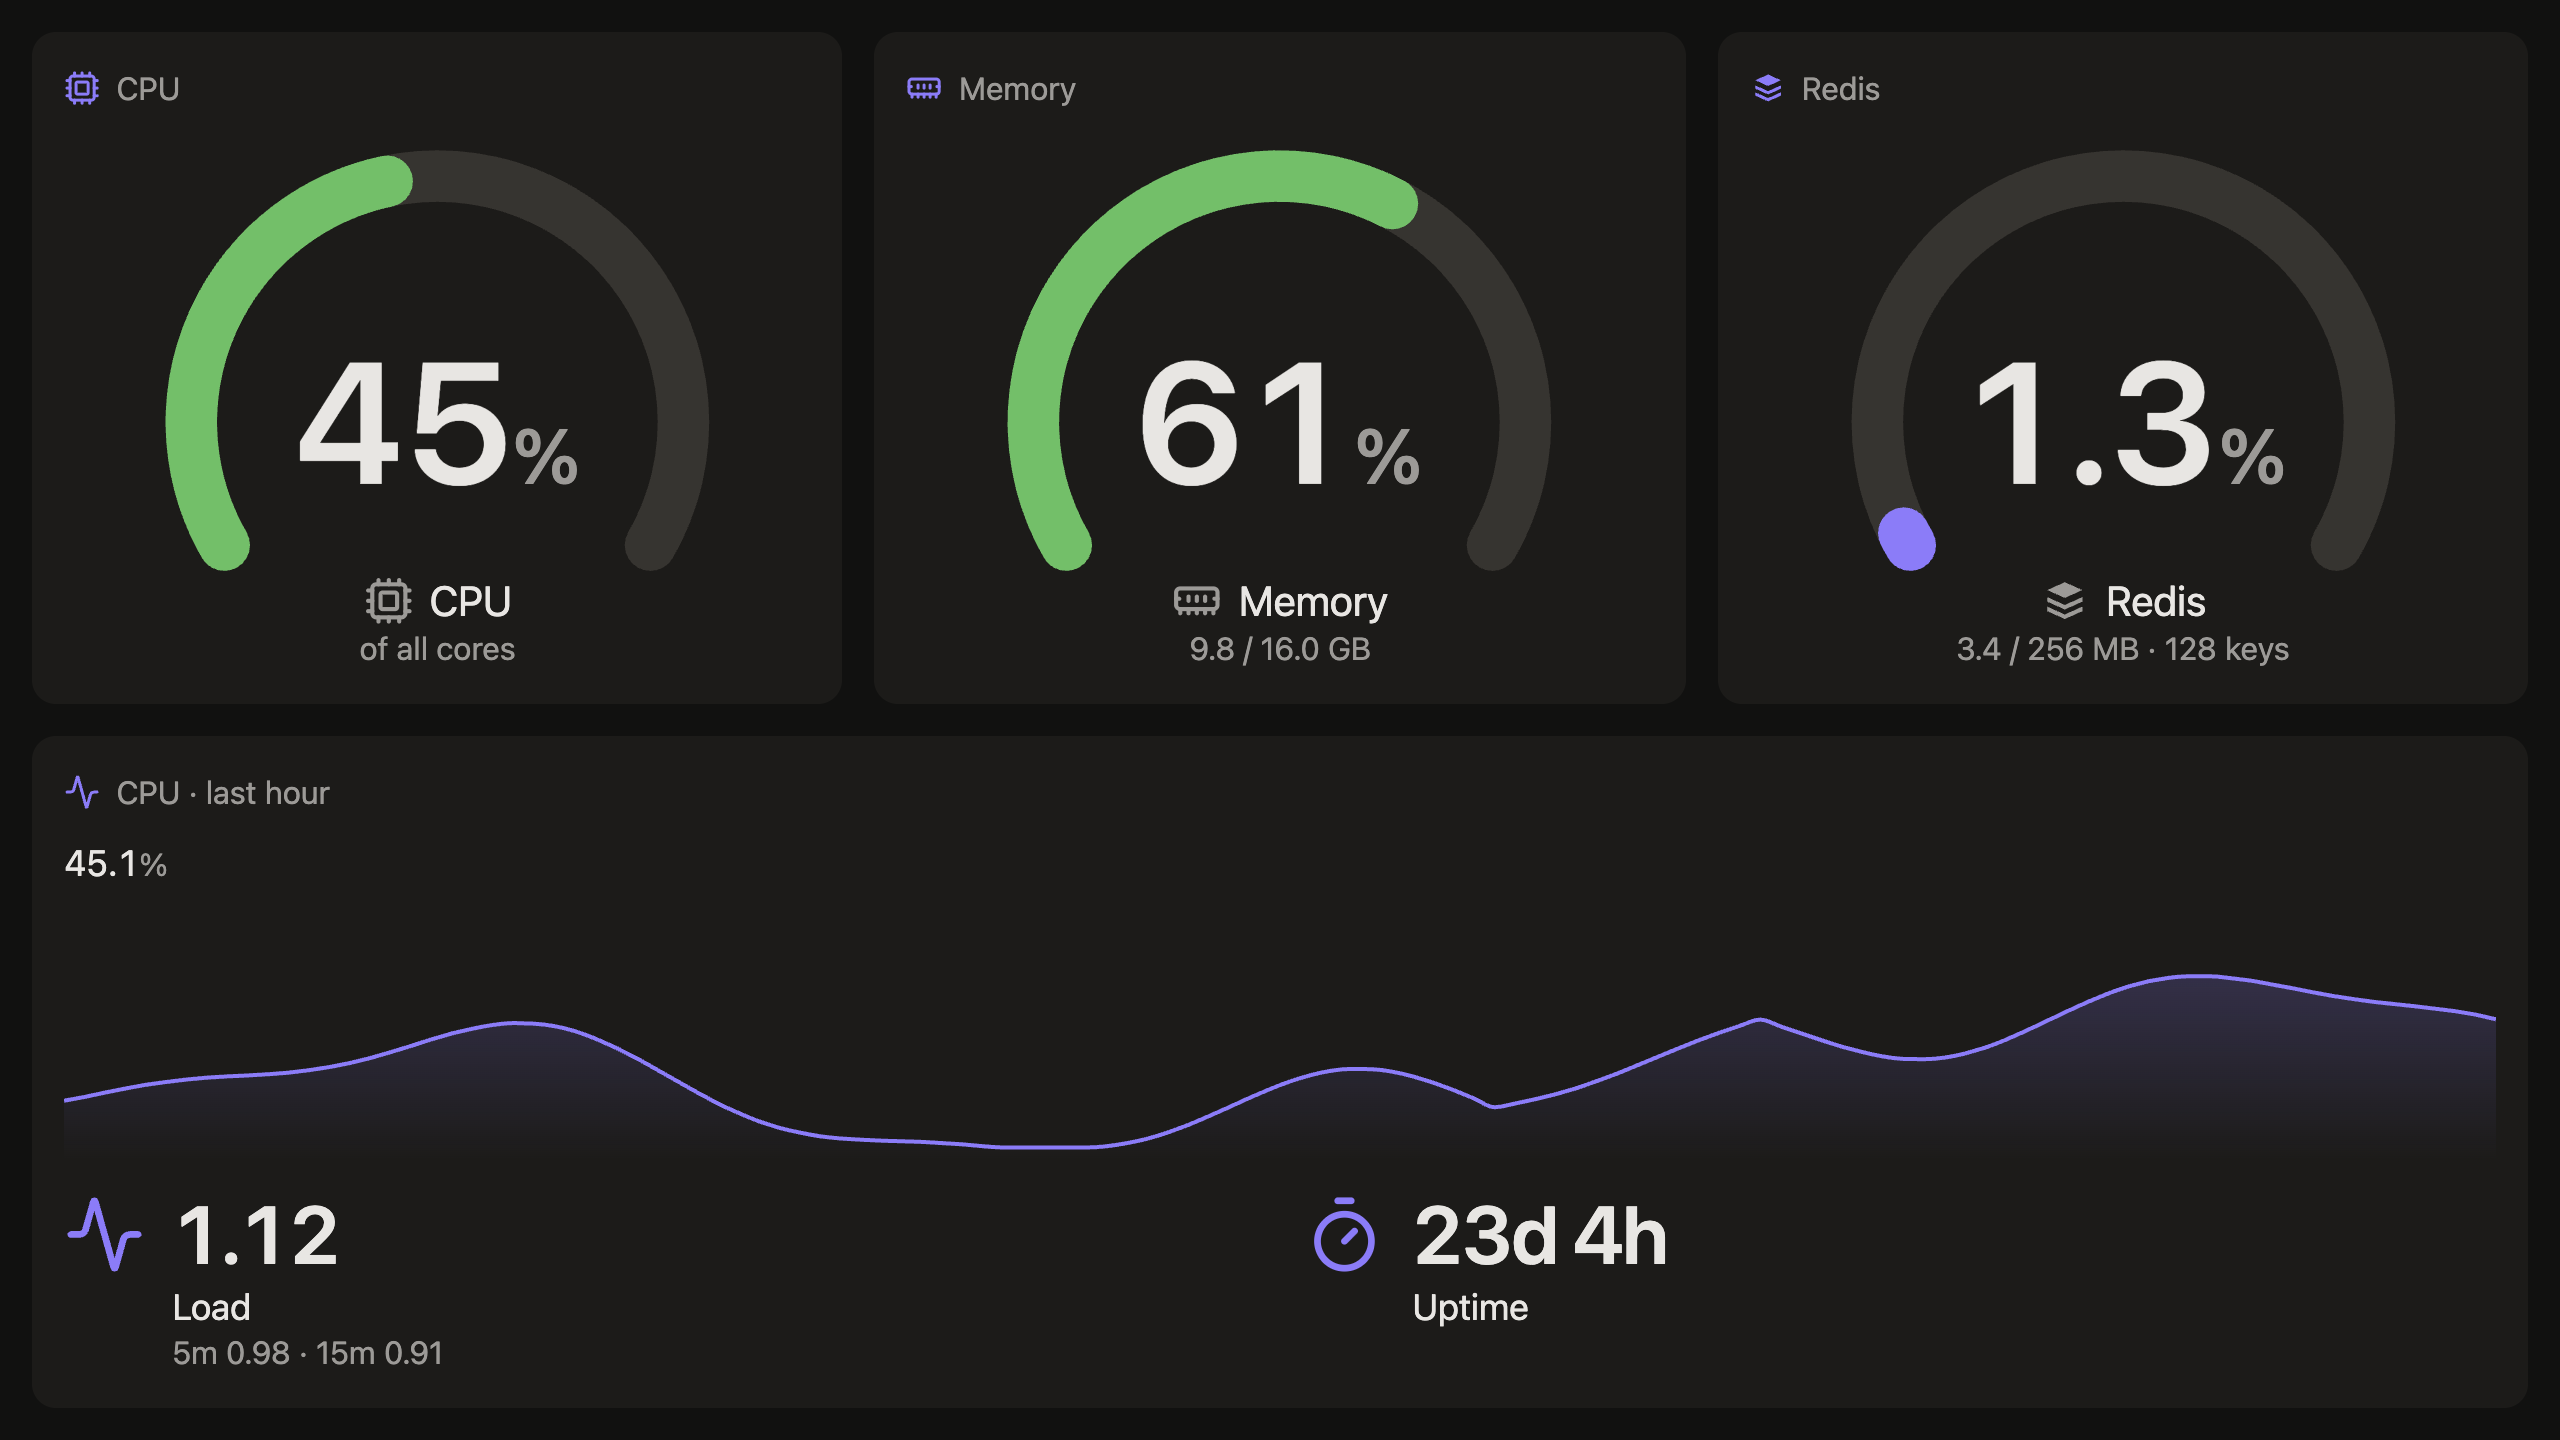
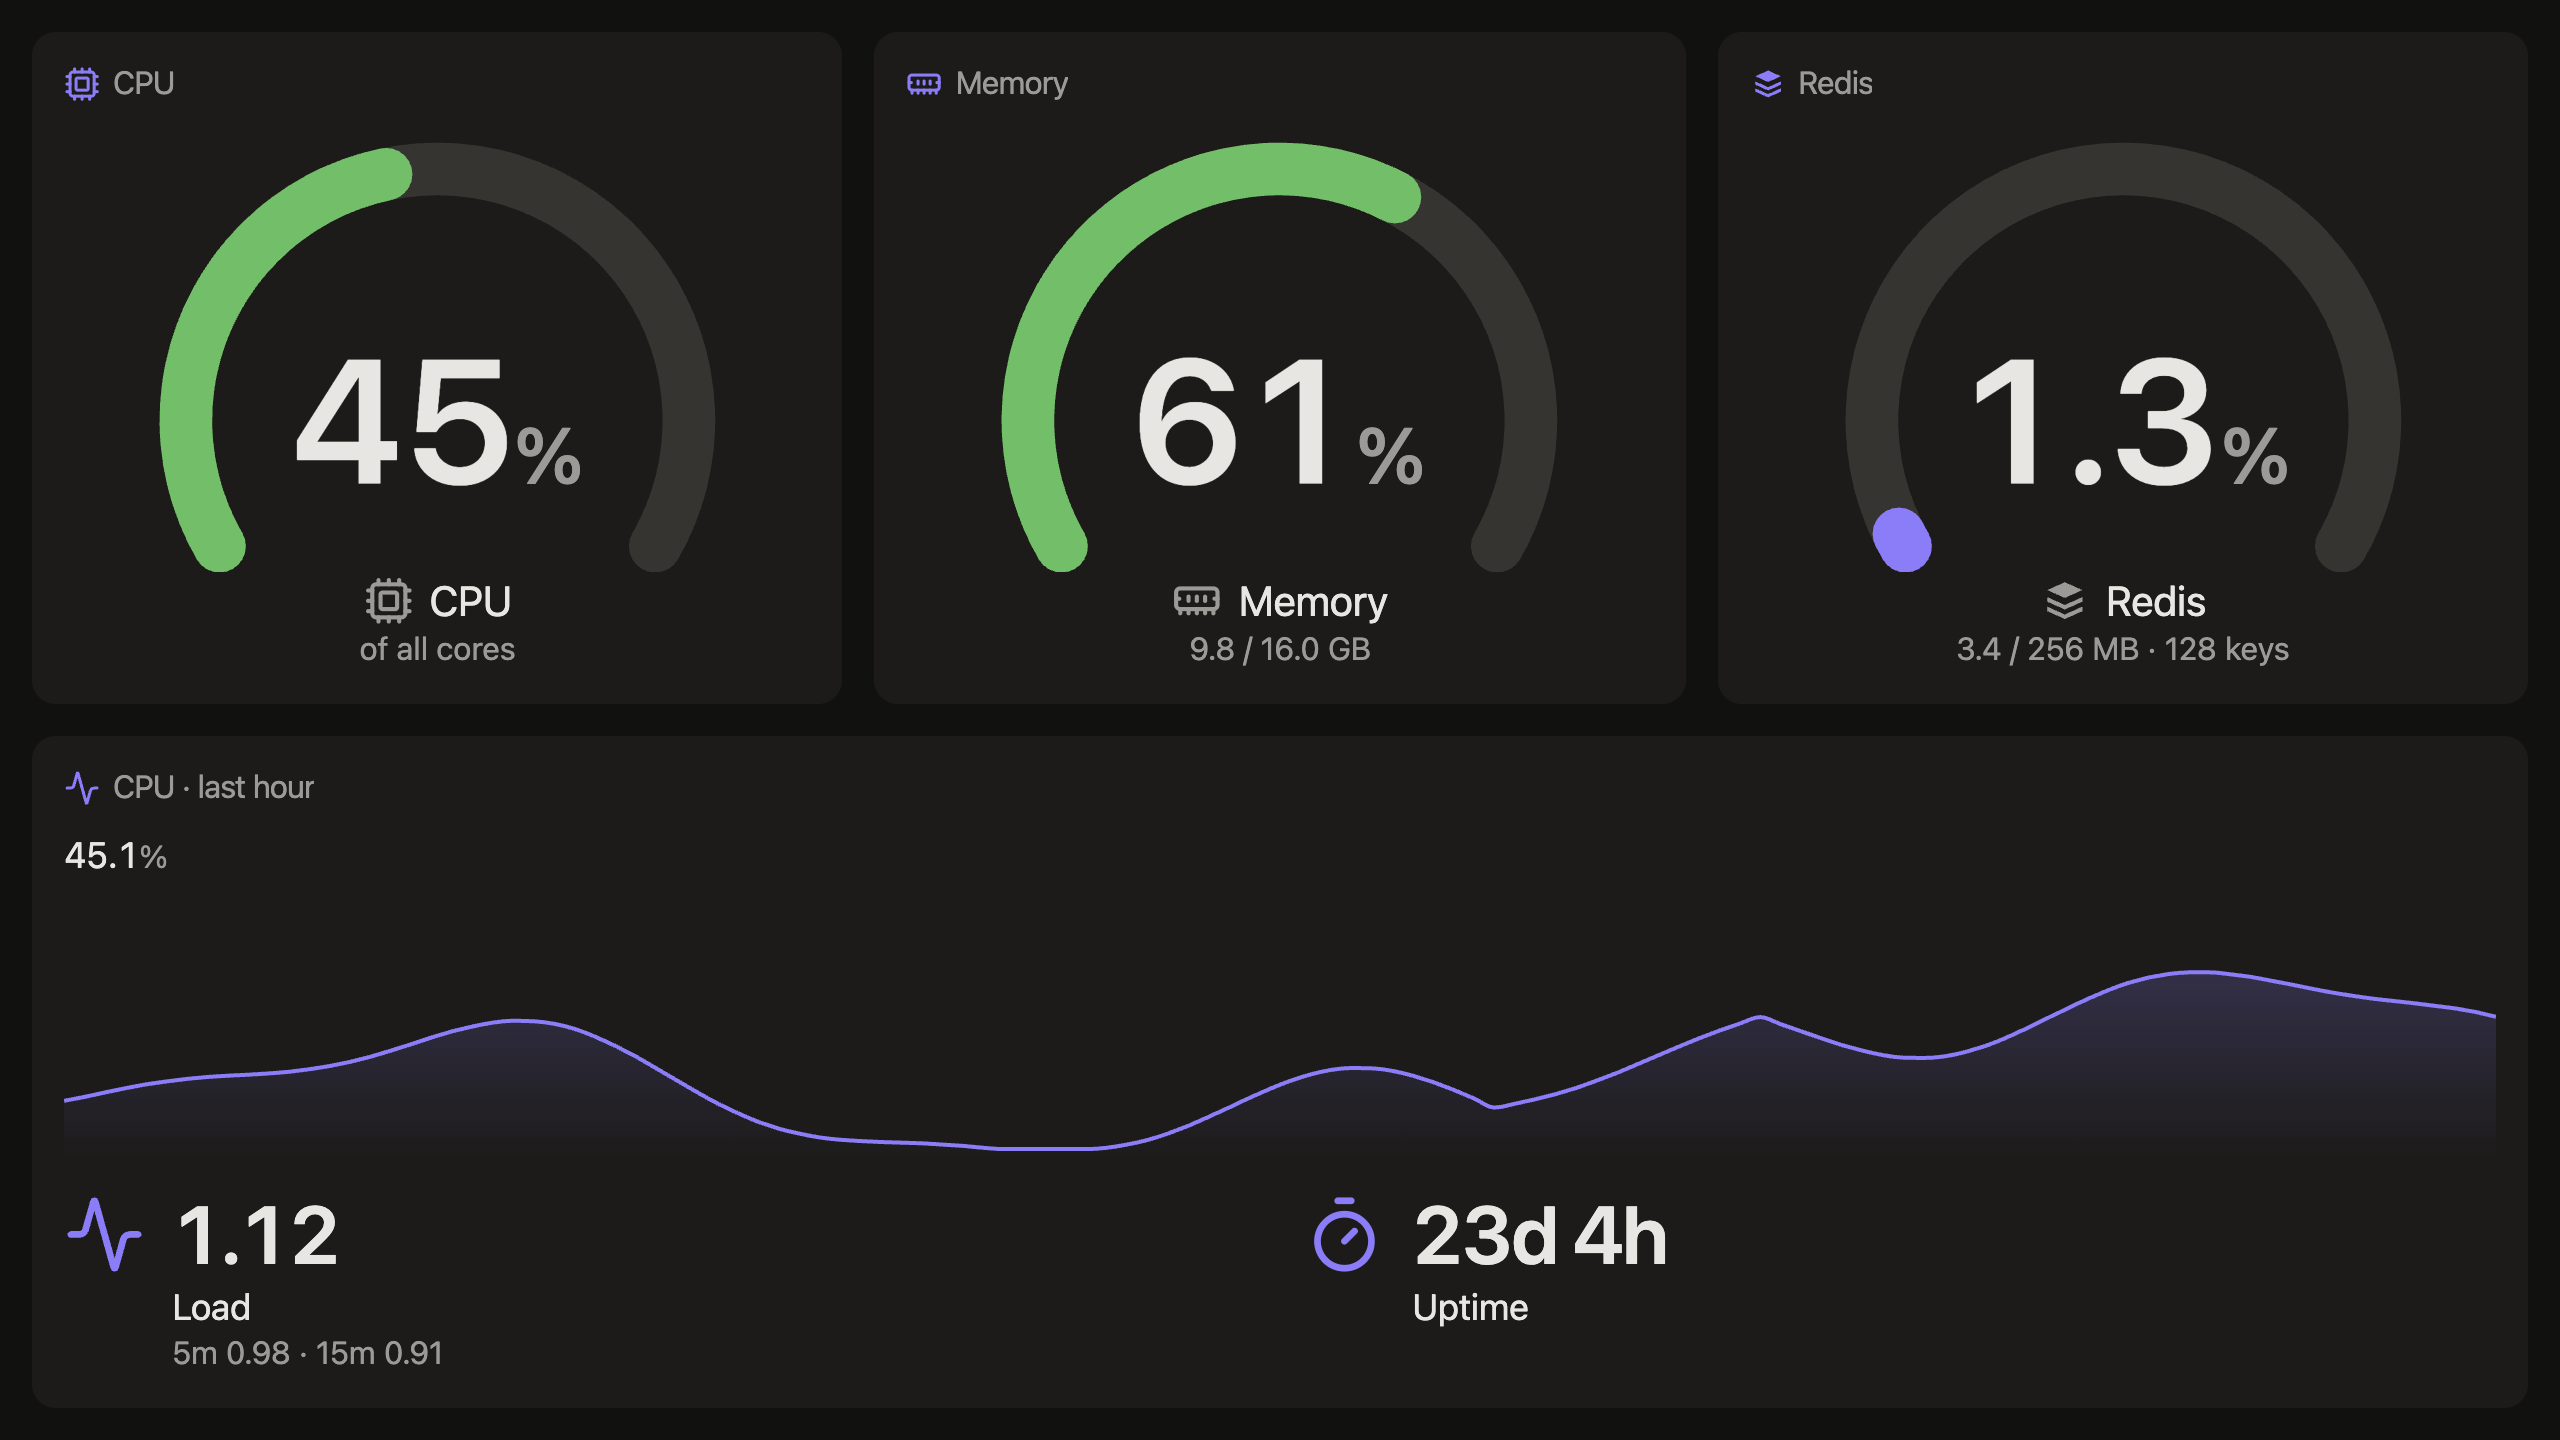
Panel headers are Titles; Title gains end details and a caption size
<Title details="end"> puts its details at the far end of the line, and
size="caption" is the small muted panel heading. Every panel header is now
one: the name on the left, its status (updated, out of date, loading) at
the end. Details may be any content from React.

Claude-Session: https://claude.ai/code/session_011yrrTueXyk1MSCZCH33ZMy

diff --git a/web/src/widgets/Title.tsx b/web/src/widgets/Title.tsx
@@ -1,33 +1,44 @@
+import type { ReactNode } from "react";
 import { Icon } from "./icons";
 
 type Props = {
   text?: string;
-  sub?: string;
+  /** Details: text, or any content (a badge, a spinner) when used from React. */
+  sub?: ReactNode;
   icon?: string;
   align?: "left" | "center" | "right";
-  /** Details under the title, or beside it: to the right when left-aligned, to the left when right-aligned. */
-  details?: "below" | "beside";
-  size?: "small" | "medium" | "large";
+  /**
+   * Details under the title, beside it (to the right when left-aligned, to the left when
+   * right-aligned), or at the far end of the line, as a panel header puts its status.
+   */
+  details?: "below" | "beside" | "end";
+  /** `caption` is the small, muted heading at the top of a panel. */
+  size?: "caption" | "small" | "medium" | "large";
 };
 
-const SIZE = { small: "text-[1.1em]", medium: "text-[1.45em]", large: "text-[1.9em]" };
+const SIZE = { caption: "type-title font-normal", small: "text-[1.1em] font-semibold", medium: "text-[1.45em] font-semibold", large: "text-[1.9em] font-semibold" };
 
 /**
- * A heading for a page or a group of panels: no panel, no background. Left, center or right aligned,
- * with optional details below it or beside it. Lua views use it as ui.title; themes as <Title>.
+ * A heading for a page, a group of panels or a panel itself: no background. Left, center or right
+ * aligned, with optional details below it, beside it or at the far end. Lua views use it as ui.title;
+ * themes as <Title>; every panel header is one.
  */
 export function Title({ text = "", sub, icon, align = "left", details = "below", size = "large" }: Props) {
-  const beside = details === "beside" && align !== "center";
+  const layout = details === "below" || align === "center" ? "below" : details;
   const justify = align === "center" ? "items-center text-center" : align === "right" ? "items-end text-right" : "items-start text-left";
+  const caption = size === "caption";
   const heading = (
-    <h2 className={`flex items-center gap-[0.4em] font-semibold leading-tight tracking-tight ${SIZE[size]}`}>
-      {icon && <Icon name={icon} size={24} className="shrink-0 text-accent" />}
-      <span>{text}</span>
+    <h2 className={`flex min-w-0 items-center gap-[0.4em] leading-tight tracking-tight ${SIZE[size]}`}>
+      {icon && (caption ? <Icon name={icon} className="size-[1.15em] shrink-0 text-accent" /> : <Icon name={icon} size={24} className="shrink-0 text-accent" />)}
+      <span className={caption ? "truncate" : ""}>{text}</span>
     </h2>
   );
-  const detail = sub && <span className="type-sub">{sub}</span>;
+  const detail = sub != null && sub !== false && sub !== "" && (
+    typeof sub === "string" ? <span className={`type-sub ${layout === "end" ? "ml-auto shrink-0" : ""}`}>{sub}</span> : <span className={`flex items-center gap-2 ${layout === "end" ? "ml-auto shrink-0" : ""}`}>{sub}</span>
+  );
+  const row = layout === "end" ? "items-center gap-2" : `items-baseline gap-[0.75em] ${align === "right" ? "flex-row-reverse justify-start" : ""}`;
   return (
-    <div data-align={align} data-details={beside ? "beside" : "below"} className={`flex min-w-0 ${beside ? `items-baseline gap-[0.75em] ${align === "right" ? "flex-row-reverse justify-start" : ""}` : `flex-col gap-[0.15em] ${justify}`}`}>
+    <div data-align={align} data-details={layout} data-size={size} className={`flex min-w-0 ${layout === "below" ? `flex-col gap-[0.15em] ${justify}` : row}`}>
       {heading}
       {detail}
     </div>

diff --git a/web/src/components/ModuleFrame.tsx b/web/src/components/ModuleFrame.tsx
@@ -3,7 +3,7 @@ import { Suspense, useEffect, useState } from "react";
 import { interpolate } from "../data/template";
 import { useModule } from "../data/useModule";
 import { WidgetTree } from "../widgets/WidgetTree";
-import { Icon } from "../widgets/icons";
+import { Title } from "../widgets/Title";
 import { ErrorBoundary } from "./ErrorBoundary";
 import { customComponent } from "./registry";
 
@@ -70,7 +70,7 @@ export function ModuleFrame({ id, title, icon: iconProp, density = "normal", chr
   // Push-only panels say when they last heard, top right, unless the stale badge already does.
   const pushedAt = info?.push_only && !stale ? (status?.pushed_at ?? null) : null;
   const now = useNow(pushedAt !== null ? 30_000 : null);
-  const updated = pushedAt !== null && <span className="type-sub shrink-0 text-[0.85em]">updated {agoText(pushedAt, now)}</span>;
+  const updated = pushedAt !== null && <span className="type-sub text-[0.85em]">updated {agoText(pushedAt, now)}</span>;
   const staleBadge = stale && (
     <button
       type="button"
@@ -93,10 +93,15 @@ export function ModuleFrame({ id, title, icon: iconProp, density = "normal", chr
   }
   return (
     <section className={`flex min-h-0 flex-1 flex-col rounded-xl bg-panel p-4 ${DENSITY_CLASS[density]}`} aria-label={heading} data-density={density}>
-      <header className="type-title mb-3 flex min-h-4 items-center gap-2">
-        {chrome === "full" && (iconProp ?? info?.icon) && <Icon name={(iconProp ?? info?.icon)!} className="size-[1.15em] shrink-0 text-accent" />}
-        {chrome === "full" && <span className="truncate">{heading}</span>}
-        {(staleBadge || refetching || updated) && <span className="ml-auto flex items-center gap-2">{updated}{staleBadge}{refetching && <span className="animate-fade-in">{spinner}</span>}</span>}
+      {/* The panel header is a Title: the name on the left, status (updated, out of date, loading) at the end. */}
+      <header className="mb-3 min-h-4">
+        <Title
+          size="caption"
+          details="end"
+          text={chrome === "full" ? heading : ""}
+          icon={chrome === "full" ? (iconProp ?? info?.icon ?? undefined) : undefined}
+          sub={(staleBadge || refetching || updated) ? <>{updated}{staleBadge}{refetching && <span className="animate-fade-in">{spinner}</span>}</> : null}
+        />
       </header>
       <div className="min-h-0 flex-1 overflow-hidden">{faded}</div>
     </section>

diff --git a/web/src/widgets/Title.test.tsx b/web/src/widgets/Title.test.tsx
@@ -32,4 +32,17 @@ describe("ui.title", () => {
     expect(screen.getByRole("heading", { name: "Garden" })).toBeInTheDocument();
     expect(container.querySelector('[data-icon="sprout"]')).not.toBeNull();
   });
+
+  test("details at the far end, and a caption size for panel headers", () => {
+    const { container } = render(<Title text="Work" icon="layout-grid" sub="updated just now" details="end" size="caption" />);
+    const root = container.firstElementChild as HTMLElement;
+    expect(root.dataset.details).toBe("end");
+    expect(root.dataset.size).toBe("caption");
+    expect(screen.getByText("updated just now").closest(".ml-auto")).not.toBeNull();
+  });
+
+  test("details can be any content, like a badge", () => {
+    render(<Title text="Work" details="end" sub={<button type="button">Out of date</button>} />);
+    expect(screen.getByRole("button", { name: "Out of date" })).toBeInTheDocument();
+  });
 });
